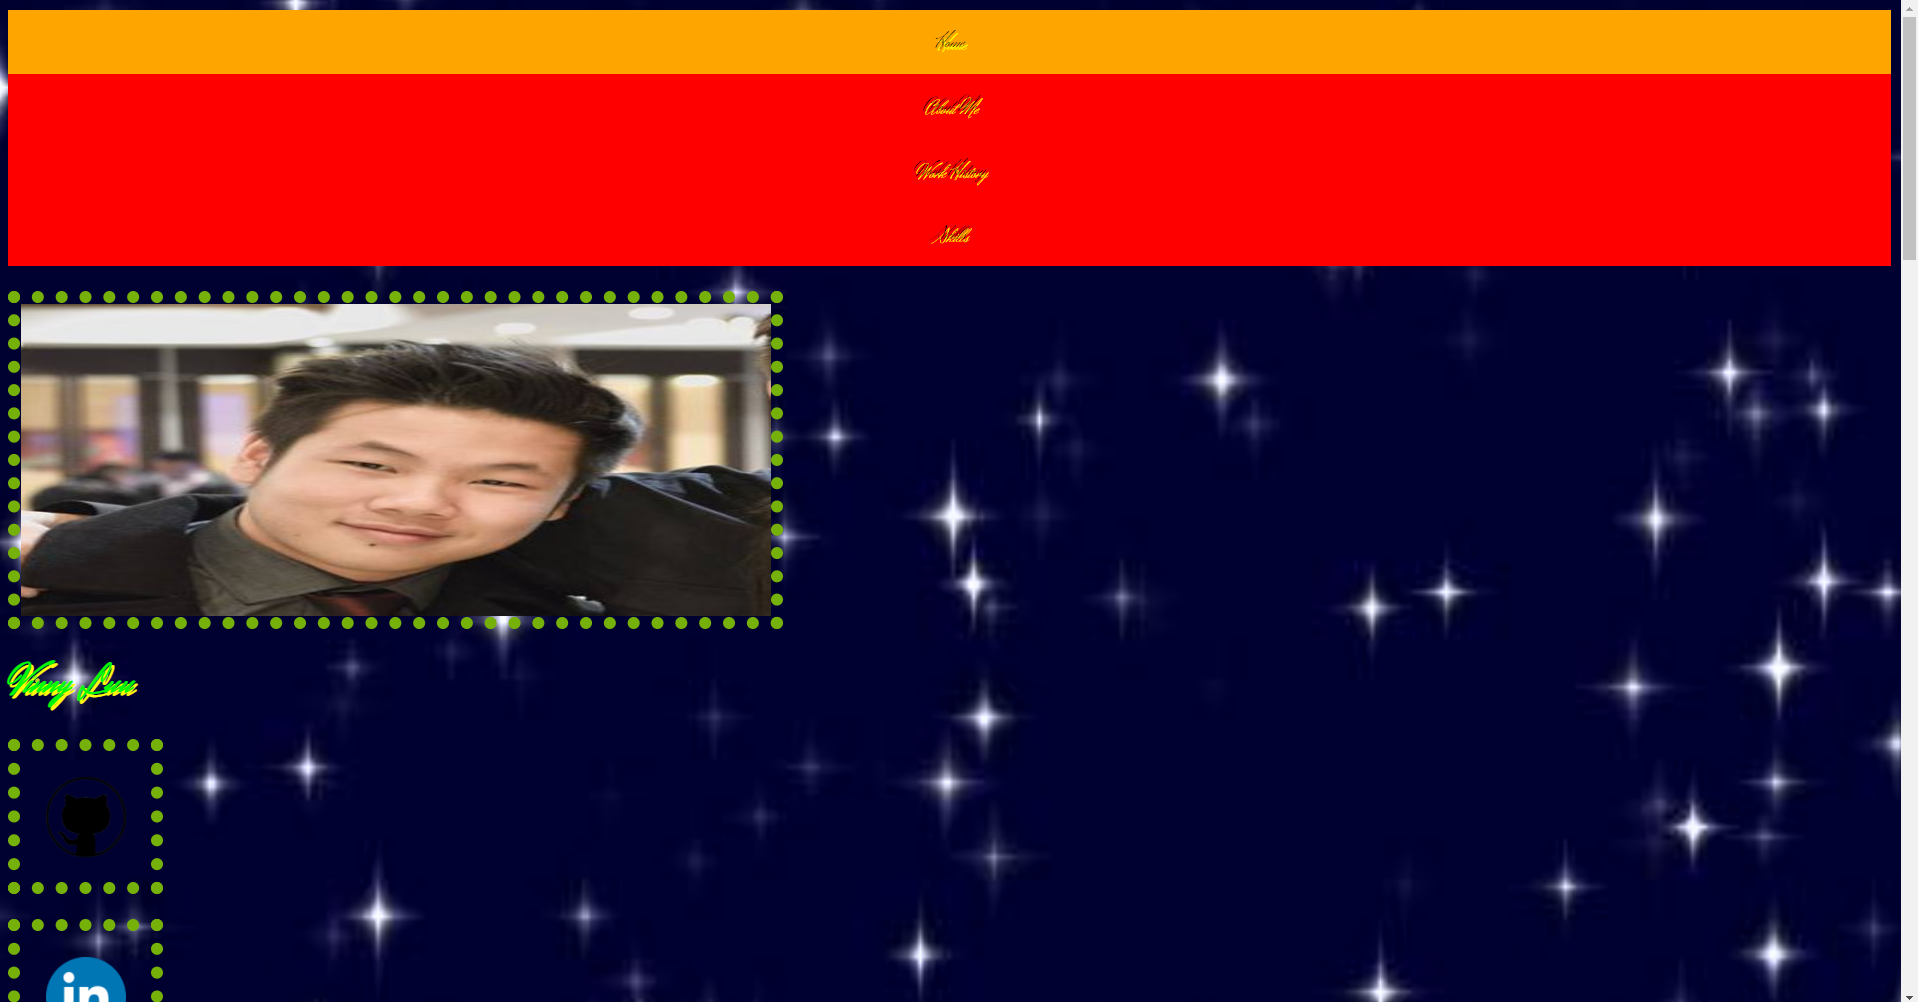
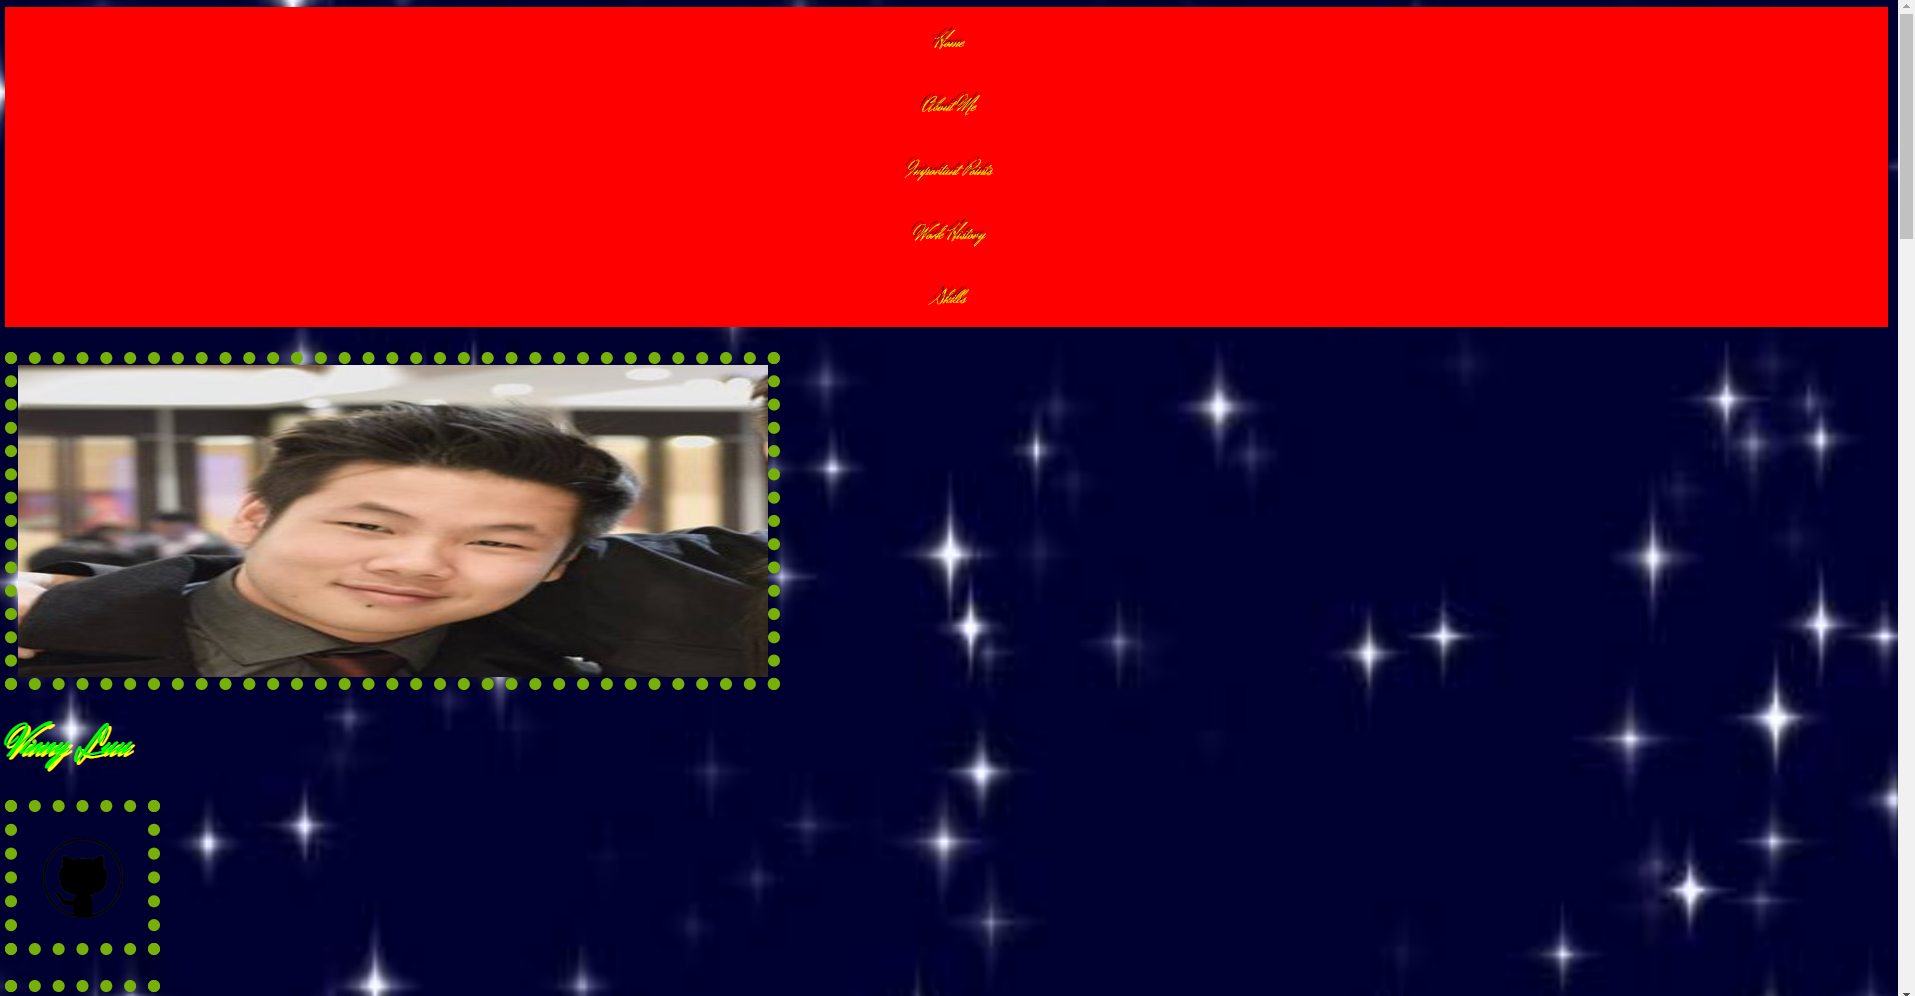
added important points section

diff --git a/homepage/good.html b/homepage/good.html
@@ -13,6 +13,7 @@
     <ul class="nav">
         <li class="horizontal_nav"><a href="#home">Home</a></li>
         <li class="horizontal_nav"><a href="#about_me">About Me</a></li>
+        <li class="horizontal_nav"><a href="#important_points">Important Points</a></li>
         <li class="horizontal_nav"><a href="#history">Work History</a></li>
         <li class="horizontal_nav"><a href="#offer">Skills</a></li>
     </ul>
@@ -41,6 +42,16 @@
             In my spare time, I enjoy playing games, rock-climbing and programming!
             I am currently learning Japanese and love watching anime, reading manga, and listening to Jpop. よろしくお願いいたします
 
+    </div>
+
+    <div id="important_points">
+        <h2>Important Points</h2>
+        <ul class="points">
+            <li>Hard working and goal focused. Not satisfied until my task is completed with the right level of quality and in a timely fashion</li>
+            <li>Work well with teams, as I am open to constructive criticism and respectful to opposing opinions</li>
+            <li>Able to adapt in fast-pace environments, make quick, informed decisions and deal with high risk situations</li>
+            <li>Love to think in bold directions, think critically and look for different avenues that inspire change and results</li>
+        </ul>
     </div>
 
     <div class="section" id="history">

diff --git a/homepage/ugly.html b/homepage/ugly.html
@@ -13,6 +13,7 @@
     <ul class="nav">
         <li class="horizontal_nav"><a href="#home">Home</a></li>
         <li class="horizontal_nav"><a href="#about_me">About Me</a></li>
+        <li class="horizontal_nav"><a href="#important_points">Important Points</a></li>
         <li class="horizontal_nav"><a href="#history">Work History</a></li>
         <li class="horizontal_nav"><a href="#offer">Skills</a></li>
     </ul>
@@ -41,6 +42,16 @@
             In my spare time, I enjoy playing games, rock-climbing and programming!
             I am currently learning Japanese and love watching anime, reading manga, and listening to Jpop. よろしくお願いいたします
 
+    </div>
+
+    <div id="important_points">
+        <h2>Important Points</h2>
+        <ul class="points">
+            <li>Hard working and goal focused. Not satisfied until my task is completed with the right level of quality and in a timely fashion</li>
+            <li>Work well with teams, as I am open to constructive criticism and respectful to opposing opinions</li>
+            <li>Able to adapt in fast-pace environments, make quick, informed decisions and deal with high risk situations</li>
+            <li>Love to think in bold directions, think critically and look for different avenues that inspire change and results</li>
+        </ul>
     </div>
 
     <div class="section" id="history">

diff --git a/homepage/good.css b/homepage/good.css
@@ -11,8 +11,6 @@ h1, h2, h3 {
     text-align: center;
 }
 
-
-
 /* Nav bar example taken from https://www.w3schools.com/css/css_navbar_horizontal.asp */
 ul.nav {
     list-style-type: none;
@@ -90,4 +88,10 @@ img.sec {
     float: left;
     width: 256px;
     height: 256px;
+}
+ 
+ul.points {
+    display: inline-block;
+    margin-left: 25%;
+    margin-right: 25%;
 }
